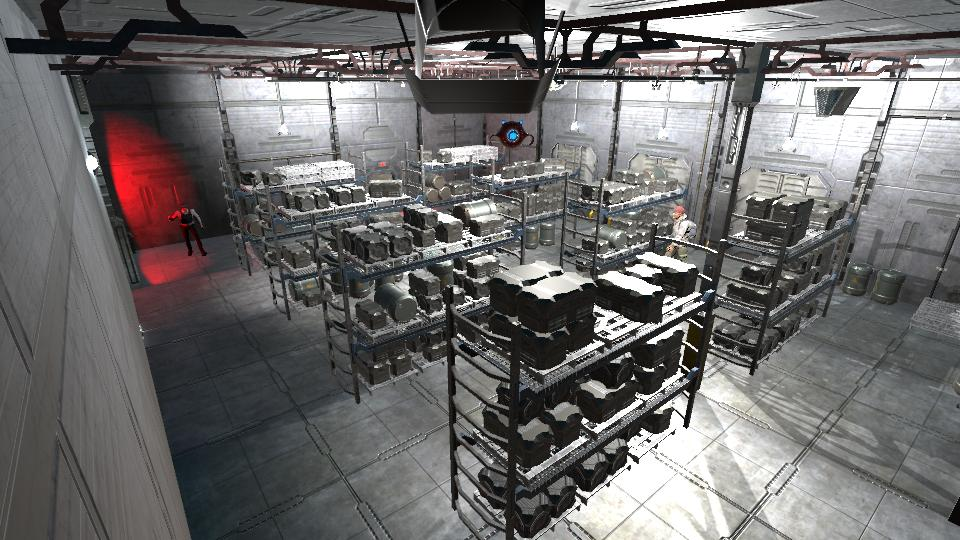
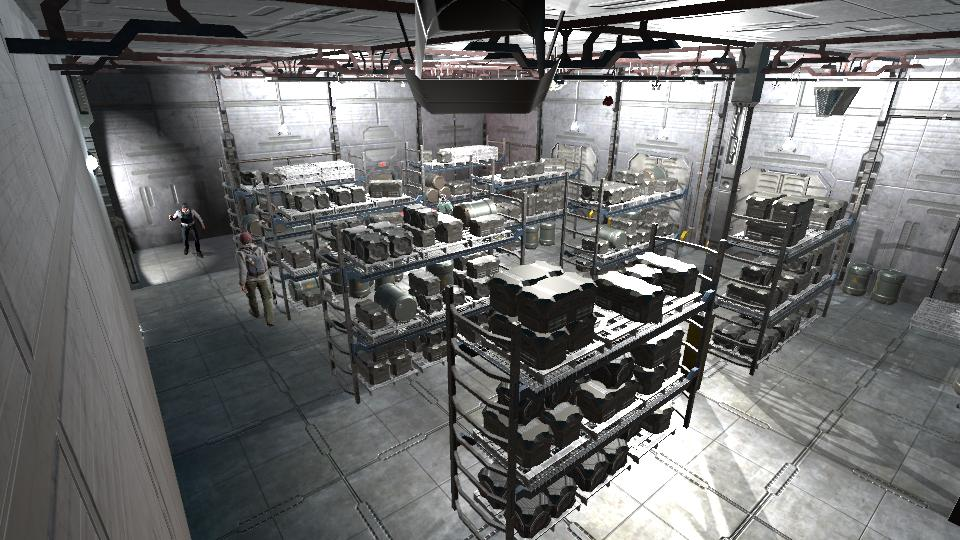
MMF (Much More Frames)

diff --git a/YOLO/main.py b/YOLO/main.py
@@ -100,17 +100,19 @@ async def alert_drone(websocket, anomalies, camera_position):
         print("No anomalies to alert about")
 
 
-def handle_camera_frame(websocket, data):
+async def handle_camera_frame(websocket, data):
     """Handle incoming camera frame"""
     camera_id = data["camera_id"]
     image_path = save_image(data["image"], f"camera_{camera_id}.jpg")
     if image_path:
         anomalies = detect_anomalies(f"camera_{camera_id}.jpg")
         if anomalies:
-            alert_drone(websocket, anomalies, data["camera_position"])
+            await alert_drone(websocket, anomalies, data["camera_position"])
 
-def handle_drone_camera_frame(websocket, data):
+async def handle_drone_camera_frame(websocket, data):
     """Handle incoming drone camera frame"""
     image_path = save_image(data["image"], "drone_camera.jpg")
     if image_path:
         anomalies = detect_anomalies("drone_camera.jpg")
+        if anomalies:
+            await alert_drone(websocket, anomalies, data["camera_position"])

diff --git a/UnityEvidencia2/Assets/Scripts/WebSocketClient.cs b/UnityEvidencia2/Assets/Scripts/WebSocketClient.cs
@@ -427,7 +427,6 @@ public class WebSocketClient : MonoBehaviour
                 if (imageBytes.Length > 0)
                 {
                     SendCameraFrame(cameraId, imageBytes);
-                    //Debug.Log($"Sent frame from camera {cameraId}");
                 }
                 else
                 {
@@ -435,7 +434,7 @@ public class WebSocketClient : MonoBehaviour
                 }
             }
 
-            yield return new WaitForSeconds(2f); // Reduce the interval to 2 seconds
+            yield return new WaitForSeconds(0.5f); // Reduce the interval to 0.5 seconds
         }
     }
 
@@ -633,6 +632,8 @@ public class WebSocketClient : MonoBehaviour
         yield return StartCoroutine(SmoothMoveDrone(landingStation, () =>
         {
             Debug.Log("[Unity] Drone has returned to landing station.");
+            Debug.Log("[Unity] Ending simulation.");
+            Application.Quit();
         }));
 
         isInvestigating = false;

diff --git a/Agents/Personnel.py b/Agents/Personnel.py
@@ -37,7 +37,7 @@ class Personnel:
             }
             await websocket.send(json.dumps(investigation_command))
         
-            await asyncio.sleep(2)
+            await asyncio.sleep(0.5)  # Reduce the interval to 0.5 seconds
         
         # self.release_control_of_drone()
 
